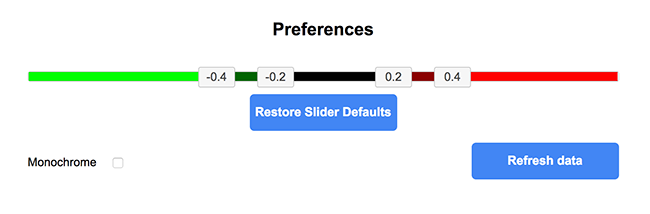
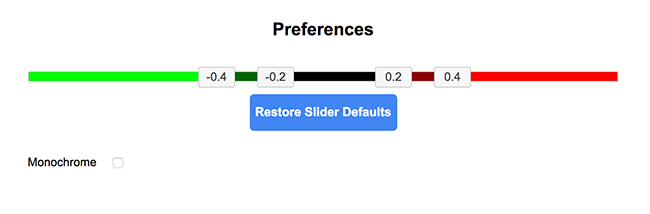
final submission

Changed region(s): [[0.7077, 0.6449, 0.9538, 0.8411]]

diff --git a/public/html/index_parked.html b/public/html/index_parked.html
@@ -34,7 +34,7 @@
         </div>
 
         <main role="main" id="interior">
-            <!-- PREFERENCES SECTION -->
+
             <div class="centerMe">
                 <section role="region" aria-labelledby="prefsTitle" id="preferencesSection">
                     <div class="spacer50"></div>
@@ -53,8 +53,10 @@
                             <div role="slider" id="custom-handle4" class="ui-slider-handle" aria-valuenow="0.5" aria-valuemin="-1" aria-valuemax="1"></div>
                         </div>
 
-                        <div class="spacer50"></div>
+                        <div class="spacer25"></div>
+
                         <button role="button" id="resetColorSliderButton" class="sliderButton" onclick="resetColorSlider()">Restore Slider Defaults</button>
+
                         <div class="spacer25"></div>
                     </div>
 
@@ -63,18 +65,25 @@
                             <label for="monochromeCheckbox">Monochrome</label>
                             <input role="checkbox" aria-checked="false" id="monochromeCheckbox" class="checkbox" type="checkbox" onchange="changeMonochrome()">
                         </div>
+                        <div class="verticalCenter">
+                            <!-- <label for="refreshCheckbox">Continuous Updates</label>
+                            <input role="checkbox" aria-checked="true" id="refreshCheckbox" class="checkbox" type="checkbox" onchange="changeRefresh()" checked> -->
+                            <button role="button" id="refreshButton" class="sliderButton" onclick="requestInfoJson()">Refresh data</button>
+
+                        </div>
                     </div>
 
                 </section><!-- end: preferencesSection -->
             </div>
 
             <div class="centerMe">
-
-                <!-- SPLASH PAGE SECTION -->
                 <section role="region" aria-labelledby="homeTitle" id="homeSection">
                     <h1 class ="hiddenForSR" id="homeTitle">Home</h1>
                     <div class="spacer100"></div>
                     <div class="centerMe">
+
+                        <!-- splash page section -->
+
 
                         <div role="link" class="splashBox" onclick="showSearch()" name="Show Search page.">
                             <div class="horizontal">
@@ -124,7 +133,6 @@
                 </section><!-- end: homeSection -->
             </div>
 
-            <!-- SEARCH SECTION -->
             <section role="region" aria-labelledby="searchTitle" id="searchSection">
                 <h1 id="searchTitle" class="centerMe hiddenForSR">Search</h1>
                 <div class="spacer100"></div>
@@ -141,7 +149,7 @@
                 </div>
             </section><!-- end: searchSection -->
 
-            <!-- EXPLORE SECTION -->
+
             <div class="centerMe">
                 <section role="region" aria-labelledby="exploreTitle" id="exploreSection">
                     <h1 class = "hiddenForSR" id="exploreTitle">Explore</h1>
@@ -171,7 +179,6 @@
                 </section><!-- end: exploreSection -->
             </div>
 
-        <!-- FOOTER SECTION -->
         <div class="centerMe">
             <footer role="contentInfo" id="footer">
                 <div class="centerMe">

diff --git a/public/scripts/javascript/index.js b/public/scripts/javascript/index.js
@@ -73,22 +73,47 @@ function requestInfoJson() {
     });
 }
 
+//var ALREADY = false;
+
 // Initializes search and leaderboard functionality
 function handleSearchAndLeaderboardData(data) {
 
-        infoJSON = data;
+    infoJSON = data;
+    renderLeaderboard();
+    //refresh the existing tables with the new data from info json
+    refreshTables();
 
-        var securityToTicker = data["security_to_ticker"];
-        var tickerToSecurity = data["ticker_to_security"];
-        populateSearchSuggestions(securityToTicker);
-        addEventListenerForSearch(securityToTicker, tickerToSecurity, data);
+    // if (ALREADY) {
+    //     removeEventListenerForSearch(securityToTicker, tickerToSecurity, data);
+    //     document.getElementById("searchBarInput").removeEventListener("awesomplete-selectcomplete", function(e){
+    //         processUserSelection(e, securityToTicker, tickerToSecurity, data);
+    //     }, false);
+    // }
 
-        // Leaderboard stuff
-        renderLeaderboard();
+    var securityToTicker = data["security_to_ticker"];
+    var tickerToSecurity = data["ticker_to_security"];
+    populateSearchSuggestions(securityToTicker);
+    addEventListenerForSearch(securityToTicker, tickerToSecurity, data);
+    // ALREADY = true;
 
-        // Should refresh the existing tables with the new data from info json
-        refreshTables();
 }
+
+// User made a selection from dropdown. 
+// This is fired after the selection is applied
+function addEventListenerForSearch(securityToTicker, tickerToSecurity, data) {
+    window.addEventListener("awesomplete-selectcomplete", function(e){
+        processUserSelection(e, securityToTicker, tickerToSecurity, data);
+    }, false);
+}
+
+// User made a selection from dropdown. 
+// This is fired after the selection is applied
+function removeEventListenerForSearch(securityToTicker, tickerToSecurity, data) {
+    window.removeEventListener("awesomplete-selectcomplete", function(e){
+        processUserSelection(e, securityToTicker, tickerToSecurity, data);
+    }, false);
+}
+
 
 // **********************************************
 // VISIBILITY FUNCTIONS BEGIN HERE
@@ -265,13 +290,7 @@ function populateSearchSuggestions(security_to_ticker) {
     awesomplete.list = autocompleteList;
 }
 
-// User made a selection from dropdown. 
-// This is fired after the selection is applied
-function addEventListenerForSearch(securityToTicker, tickerToSecurity, data) {
-    window.addEventListener("awesomplete-selectcomplete", function(e){
-        processUserSelection(e, securityToTicker, tickerToSecurity, data);
-    }, false);
-}
+
 
 // Takes search input from user and renders the associated data to the search workbench.
 function processUserSelection(e, securityToTicker, tickerToSecurity, json) {

diff --git a/public/html/about_parked.html b/public/html/about_parked.html
@@ -172,7 +172,7 @@
                             <img src="../images/preferences_04.png" alt="slider screenshot" width="650px">
                             <br><br>
 
-                            <div class="aboutContentDiv">If you click on "Restore Defaults" button, it will restore the color breakpoints back to their original positions. If you refresh the page, it will refresh the data (which gets updated every five minutes on the server.</div>
+                            <div class="aboutContentDiv">The stock data updates on the server every 5 minutes during normal trading hours. You can refresh the stock data on your page by clicking the Refresh data button. If you click on "Restore Defaults" button, it will restore the color breakpoints back to their original positions.</div>
                         </p>
 
                         <p class="longText">

diff --git a/public/css/awesomplete.css b/public/css/awesomplete.css
@@ -17,7 +17,8 @@
 }
 
 .awesomplete > ul {
-    position: absolute;
+    /* position: absolute; */
+    position: relative;
     left: 0;
     z-index: 1;
     min-width: 100%;
